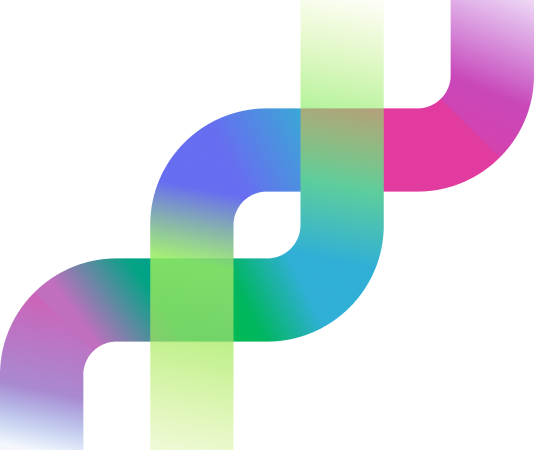
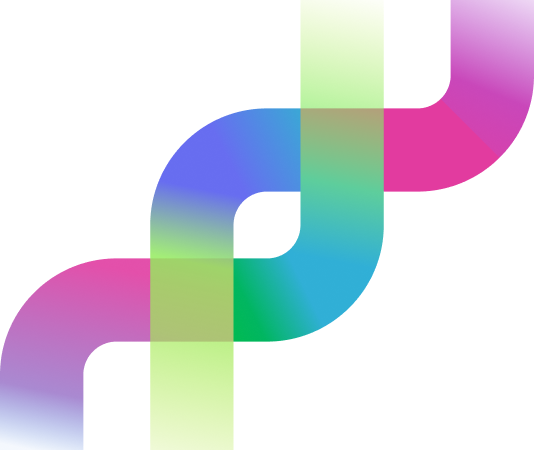
code-genome: use the vector Moderne DNA SVG for the helix mark

Changed region(s): [[0.0899, 0.56, 0.4494, 0.7778]]

diff --git a/code-genome-morpheus.html b/code-genome-morpheus.html
@@ -175,7 +175,7 @@ footer { background: var(--footer-bg); border-top: 1px solid var(--line); paddin
 
 <header class="topbar">
   <a class="brand" href="#">
-    <img src="assets/moderne-dna/moderne-dna@3x.png" alt="">
+    <img src="assets/moderne-dna/moderne-dna.svg" alt="">
     <span class="wordmark"><span class="w1">code</span><span class="w2">genome</span><span class="w3">project</span></span>
   </a>
   <span class="top-spacer"></span>
@@ -190,7 +190,7 @@ footer { background: var(--footer-bg); border-top: 1px solid var(--line); paddin
 <main>
 <div class="view" id="view-search">
   <section class="hero">
-    <img class="hero-mark" src="assets/moderne-dna/moderne-dna@3x.png" alt="" aria-hidden="true">
+    <img class="hero-mark" src="assets/moderne-dna/moderne-dna.svg" alt="" aria-hidden="true">
     <div class="hero-copy">
       <h1>The world's code<br><span class="grad">has a genome.</span></h1>
       <p class="lede">Sequencing every public open source artifact into a <b>Lossless Semantic Tree</b> — a compiler-accurate model that delivers <b>certainty, not probability</b>.</p>
